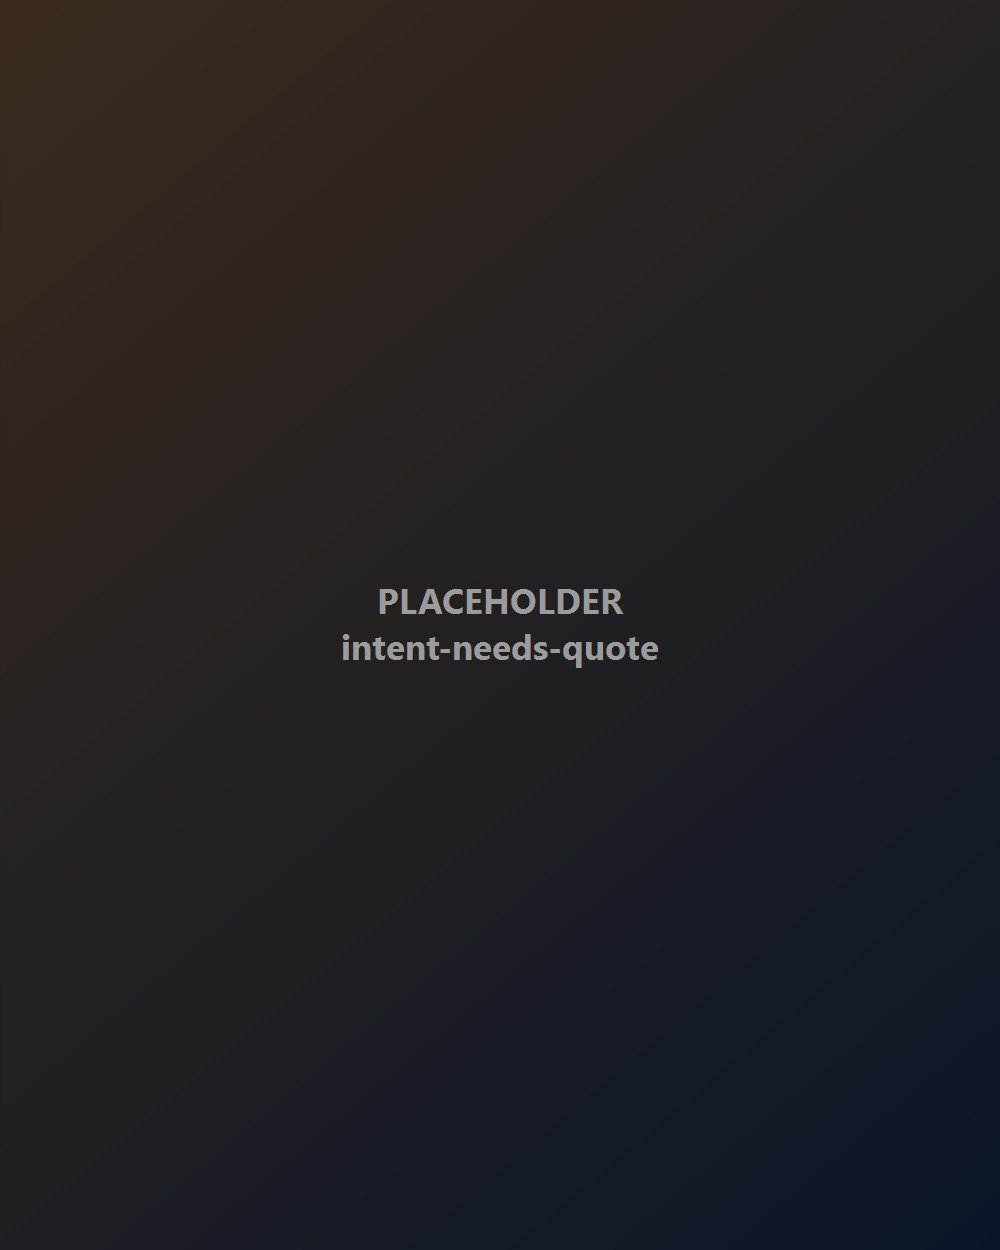
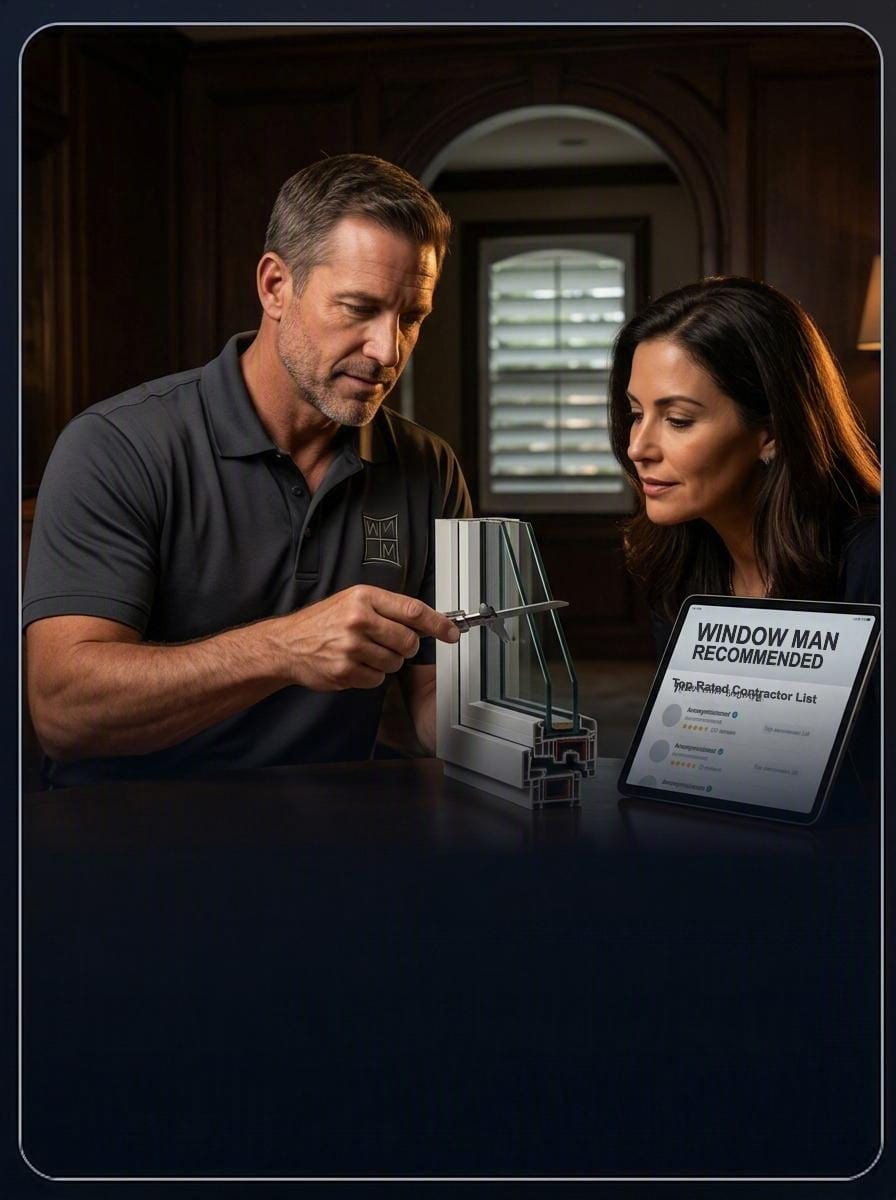
feat(prophecy): add optimized intent card imagery with eager hero loading

diff --git a/src/pages/CampaignProphecy/ProphecyIntentCard.tsx b/src/pages/CampaignProphecy/ProphecyIntentCard.tsx
@@ -37,7 +37,14 @@ interface ProphecyIntentCardProps {
   option: ProphecyIntentOption;
   selected: boolean;
   onSelect: (value: IntakeIntentChoice) => void;
+  /** Prioritize only cards visible in the initial hero viewport. */
+  priority?: boolean;
 }
+
+const HIGH_FETCH_PRIORITY_ATTR = { fetchpriority: "high" } as Record<
+  string,
+  string
+>;
 
 /**
  * A full-bleed image card the visitor picks with their thumb.
@@ -52,15 +59,15 @@ interface ProphecyIntentCardProps {
  * action, only on the ambient state of an unmade choice.
  *
  * ASSETS
- * `imageBase` resolves to `<base>.avif`, `.webp` and `.jpg`. Until real art
- * lands, the layered gradient beneath the image is what shows — a missing file
- * degrades to a lit panel rather than a broken-image icon, so the page is never
- * blocked on the photography.
+ * `imageBase` resolves to `<base>.avif`, `.webp` and `.jpg`. If an advertised
+ * asset fails, the layered gradient beneath the image remains as a deliberate
+ * fallback rather than showing a broken-image icon.
  */
 export default function ProphecyIntentCard({
   option,
   selected,
   onSelect,
+  priority = false,
 }: ProphecyIntentCardProps) {
   // A card whose art is missing must still look deliberate. On any load failure
   // the image is dropped and the gradient beneath becomes the design, rather
@@ -116,8 +123,11 @@ export default function ProphecyIntentCard({
           <img
             src={`${option.imageBase}.jpg`}
             alt={option.imageAlt}
-            loading="lazy"
+            width={896}
+            height={1200}
+            loading={priority ? "eager" : "lazy"}
             decoding="async"
+            {...(priority ? HIGH_FETCH_PRIORITY_ATTR : {})}
             onError={() => setImageFailed(true)}
             className={cn(
               "absolute inset-0 h-full w-full object-cover",

diff --git a/src/pages/CampaignProphecy/ProphecyIntentSemantics.test.tsx b/src/pages/CampaignProphecy/ProphecyIntentSemantics.test.tsx
@@ -23,6 +23,22 @@ describe("Prophecy intent fork semantics", () => {
     ).toBeInTheDocument();
     expect(screen.queryByRole("radiogroup")).not.toBeInTheDocument();
     expect(screen.queryByRole("radio")).not.toBeInTheDocument();
+    expect(
+      screen.getByRole("img", {
+        name: /printed window proposal and estimate/i,
+      }),
+    ).toHaveAttribute("loading", "eager");
+    expect(
+      screen.getByRole("img", {
+        name: /window frame sample beside a tablet/i,
+      }),
+    ).toHaveAttribute("fetchpriority", "high");
+    expect(document.querySelectorAll('source[type="image/avif"]')).toHaveLength(
+      2,
+    );
+    expect(document.querySelectorAll('source[type="image/webp"]')).toHaveLength(
+      2,
+    );
   });
 
   it("renders footer intent cards as a button group, not a radio group", () => {
@@ -33,6 +49,16 @@ describe("Prophecy intent fork semantics", () => {
     ).toBeInTheDocument();
     expect(screen.queryByRole("radiogroup")).not.toBeInTheDocument();
     expect(screen.queryByRole("radio")).not.toBeInTheDocument();
+    expect(
+      screen.getByRole("img", {
+        name: /printed window proposal and estimate/i,
+      }),
+    ).toHaveAttribute("loading", "lazy");
+    expect(
+      screen.getByRole("img", {
+        name: /printed window proposal and estimate/i,
+      }),
+    ).not.toHaveAttribute("fetchpriority");
   });
 
   it("exposes the modal intent choice through pressed button semantics", () => {

diff --git a/src/pages/CampaignProphecy/prophecyIntentOptions.ts b/src/pages/CampaignProphecy/prophecyIntentOptions.ts
@@ -24,8 +24,9 @@ export const PROPHECY_INTENT_OPTIONS: readonly ProphecyIntentOption[] = [
     detail:
       "Upload it and we'll read every line — price, scope, fees, warranty, fine print — then show you exactly what to ask before you sign.",
     imageBase: "/images/prophecy/intent-has-quote",
+    imageFormats: ["avif", "webp"],
     imageAlt:
-      "A printed window estimate on a kitchen table, lit from one side",
+      "Hands holding a printed window proposal and estimate over a stack of documents",
   },
   {
     value: "no_quote",
@@ -34,7 +35,8 @@ export const PROPHECY_INTENT_OPTIONS: readonly ProphecyIntentOption[] = [
     detail:
       "We'll help you get a first one from a contractor worth talking to — then review it free, with no pressure to buy anything.",
     imageBase: "/images/prophecy/intent-needs-quote",
+    imageFormats: ["avif", "webp"],
     imageAlt:
-      "Impact windows in a Florida home with afternoon light coming through",
+      "Two people examining a window frame sample beside a tablet",
   },
 ] as const;

diff --git a/src/pages/CampaignProphecy/sections/ProphecyHero.tsx b/src/pages/CampaignProphecy/sections/ProphecyHero.tsx
@@ -84,6 +84,7 @@ export default function ProphecyHero({
                 option={option}
                 selected={false}
                 onSelect={onChooseIntent}
+                priority
               />
             ))}
           </div>
